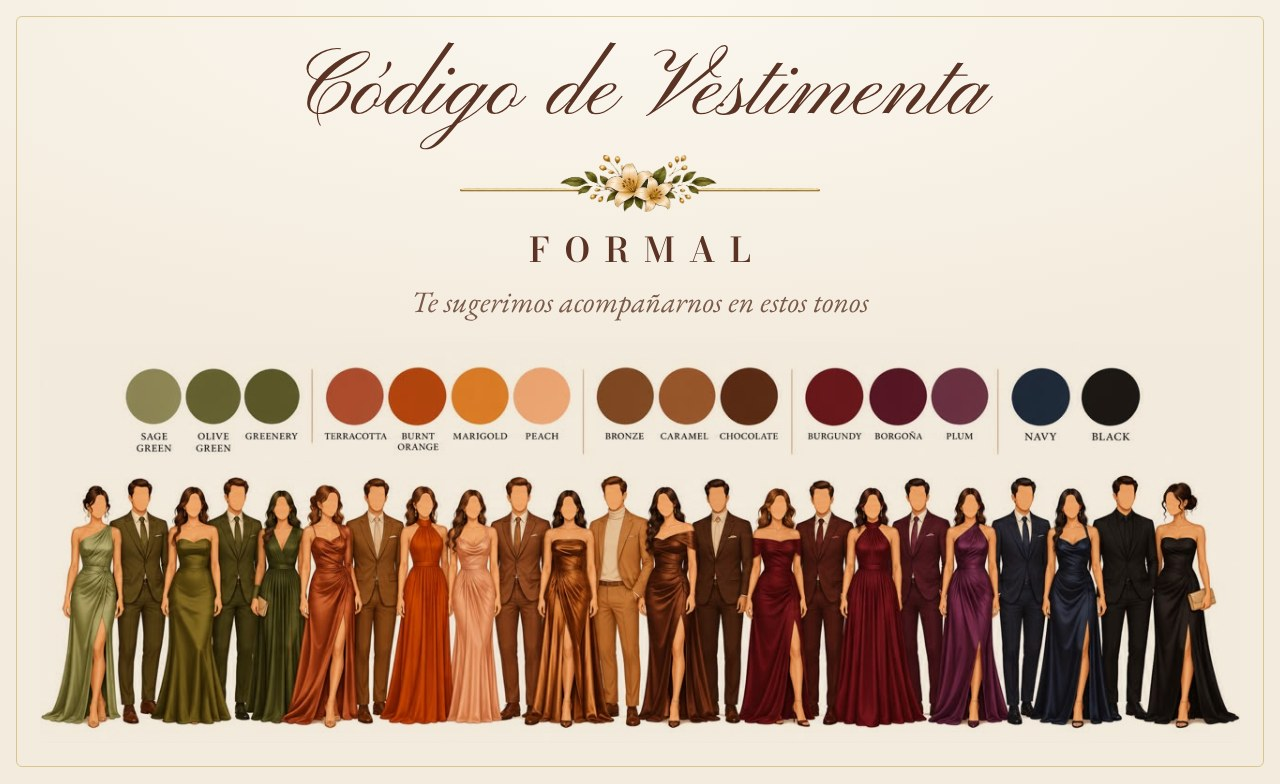
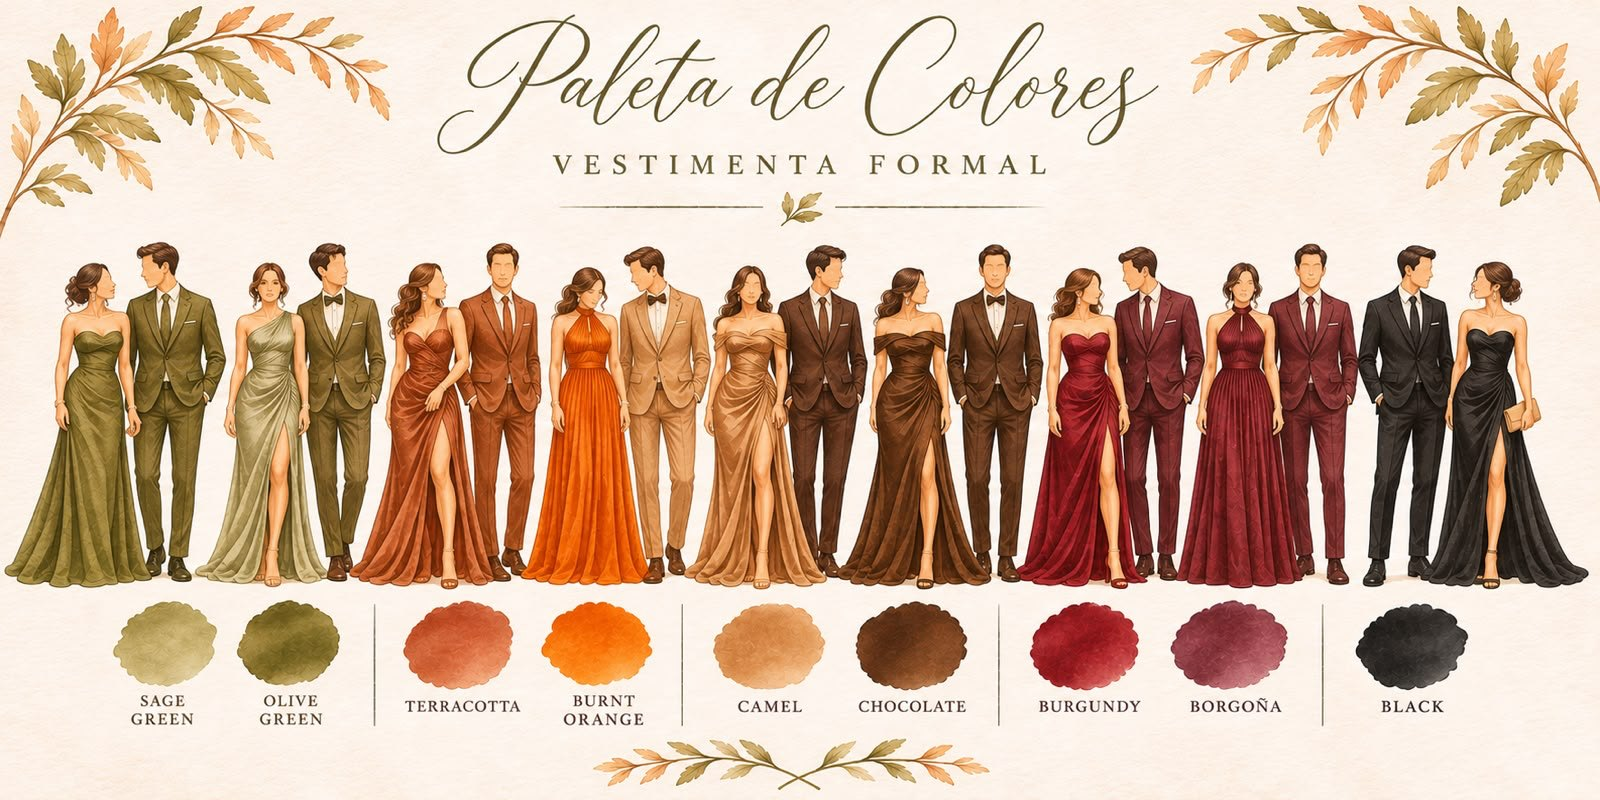
Add files via upload

diff --git a/CCSB.css b/CCSB.css
@@ -2877,18 +2877,67 @@ body { font-family: 'EB Garamond', Georgia, serif; font-size: 1.15rem; }
     letter-spacing: 0.4em;
     padding-left: 0.4em;
 }
-/* Sin flores bajo los títulos de sección */
-.section-title::after,
-.content > section:nth-of-type(even) .section-title::after,
-.content > section:nth-of-type(odd) .section-title::after {
-    content: none !important;
-    display: none !important;
-}
-.section-title { margin-bottom: 1rem !important; }
 /* Reloj nuevo a lápiz */
 .countdown-section .section-title::before {
     width: 92px !important;
     height: 92px !important;
     background-image: url("iconos/insp/reloj.webp") !important;
     filter: drop-shadow(0 6px 12px rgba(0, 0, 0, 0.35)) !important;
+}
+
+/* =====================================================================
+   CUARTA RONDA — Detalles y Confirmación legibles sobre las flores
+   ===================================================================== */
+/* Texto más angosto y centrado para que no pise los ramos laterales */
+.party-section .section-title,
+.party-section .section-subtitle,
+.rsvp-section .section-title,
+.rsvp-section .section-subtitle {
+    max-width: 560px;
+    margin-left: auto !important;
+    margin-right: auto !important;
+    text-align: center;
+    text-wrap: balance;
+}
+@media (max-width: 768px) {
+    .party-section .section-title,
+    .rsvp-section .section-title { max-width: 270px; }
+    .party-section .section-subtitle,
+    .rsvp-section .section-subtitle { max-width: 270px; padding: 0; }
+    .party-section .party-grid { padding: 0 1.6rem; }
+}
+
+/* Ramos de fondo: más hacia afuera, a la izquierda y a la derecha */
+.party-section::before,
+.content > section.party-section::before {
+    background-position:
+        left -100px top 10px,
+        right -80px top 0px,
+        left -150px top 40%,
+        right -160px top 30%,
+        left -140px top 68%,
+        right -130px top 62%,
+        left -110px bottom 0px,
+        right -100px bottom 10px,
+        left 22% bottom -40px,
+        right 22% bottom -40px !important;
+}
+@media (max-width: 768px) {
+    .party-section::before,
+    .content > section.party-section::before {
+        background-position:
+            left -120px top 20px,
+            right -95px top 10px,
+            right -145px top 19%,
+            left -150px top 27%,
+            left -135px top 38%,
+            right -155px top 43%,
+            right -150px top 56%,
+            left -155px top 60%,
+            right -145px top 76%,
+            left -140px top 82%,
+            left -130px bottom 10px,
+            right -120px bottom 20px,
+            center bottom -60px !important;
+    }
 }

diff --git a/regalo-modal.js b/regalo-modal.js
@@ -153,8 +153,8 @@
     window.closeGiftModal = closeGiftModal;
     window.showGifts = openGiftModal; // compatibilidad con onclick="showGifts()"
     /* ----- Código de vestimenta (imagen flotante) ----- */
-    const DRESS_IMG = 'codigo-vestimenta.jpg?v=4';
-    const DRESS_IMG_MOVIL = 'codigo-vestimenta-movil.jpg?v=4';
+    const DRESS_IMG = 'codigo-vestimenta.jpg?v=5';
+    const DRESS_IMG_MOVIL = 'codigo-vestimenta-movil.jpg?v=5';
 
     function buildDress() {
         if (document.getElementById('rgDressOverlay')) return;
@@ -163,7 +163,7 @@
               '<div class="rg-sheet rg-dress">' +
                 '<button type="button" class="rg-close" aria-label="Cerrar">&times;</button>' +
                 '<picture><source media="(max-width: 640px)" srcset="' + DRESS_IMG_MOVIL + '">' +
-                '<img src="' + DRESS_IMG + '" alt="Código de vestimenta formal. Tonos sugeridos: verde salvia, verde oliva, terracota, naranja quemado, mostaza, durazno, bronce, caramelo, chocolate, burgundy, borgoña, ciruela, azul marino y negro." loading="lazy"></picture>' +
+                '<img src="' + DRESS_IMG + '" alt="Paleta de colores, vestimenta formal. Tonos sugeridos: verde salvia, verde oliva, terracota, naranja quemado, camel, chocolate, burgundy, borgoña y negro." loading="lazy"></picture>' +
               '</div>' +
             '</div>');
         const o = document.getElementById('rgDressOverlay');

diff --git a/index.html b/index.html
@@ -24,8 +24,8 @@
     <link rel="preconnect" href="https://fonts.gstatic.com" crossorigin>
     <link rel="preconnect" href="https://www.google.com">
     <link href="https://fonts.googleapis.com/css2?family=Great+Vibes&family=Pinyon+Script&family=Bodoni+Moda:ital,opsz,wght@0,6..96,400..700;1,6..96,400..600&family=EB+Garamond:ital,wght@0,400..600;1,400..500&family=Cormorant+Garamond:ital,wght@0,400;0,600;1,400&display=swap" rel="stylesheet">
-    <link rel="stylesheet" href="CCSB.css?v=16">
-    <link rel="stylesheet" href="regalo-modal.css?v=4">
+    <link rel="stylesheet" href="CCSB.css?v=18">
+    <link rel="stylesheet" href="regalo-modal.css?v=5">
         <style>
         /* Carrusel: 3 imágenes simultáneamente con foto central destacada */
         .carousel-track-container {
@@ -721,6 +721,6 @@
         })();
         </script>
         <script src="JAVAB.js?v=23" defer></script>
-        <script src="regalo-modal.js?v=4" defer></script>
+        <script src="regalo-modal.js?v=5" defer></script>
 </body>
 </html>

diff --git a/regalo-modal.css b/regalo-modal.css
@@ -203,3 +203,6 @@
 .rg-sheet { font-family: 'EB Garamond', Georgia, serif; }
 .rg-holder-name, .rg-option-text strong, .rg-value { font-family: 'Bodoni Moda', Georgia, serif !important; }
 .rg-title { font-family: 'Pinyon Script', cursive !important; font-style: normal !important; font-size: 2.8rem !important; }
+/* Paleta nueva: en celular la imagen es vertical; se puede desplazar dentro */
+.rg-dress { max-height: 92vh; max-height: 92dvh; overflow-y: auto; -webkit-overflow-scrolling: touch; overscroll-behavior: contain; }
+.rg-dress .rg-close { position: sticky; float: right; margin: 6px 6px -36px 0; z-index: 2; }
